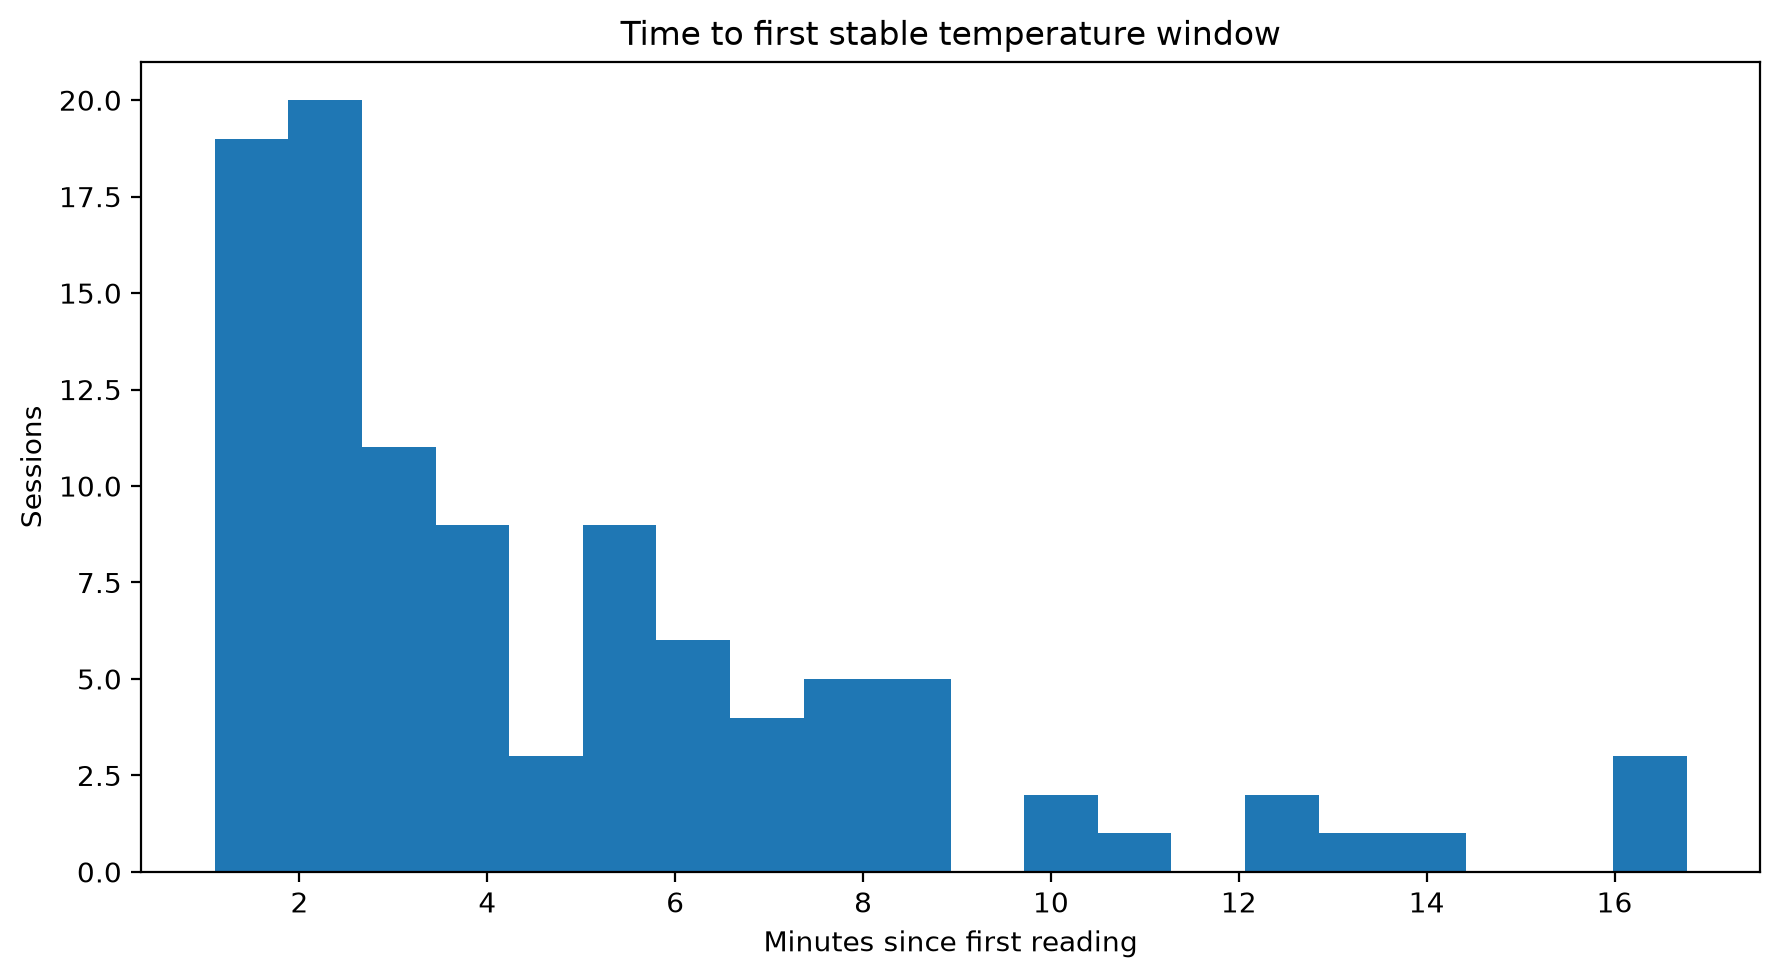
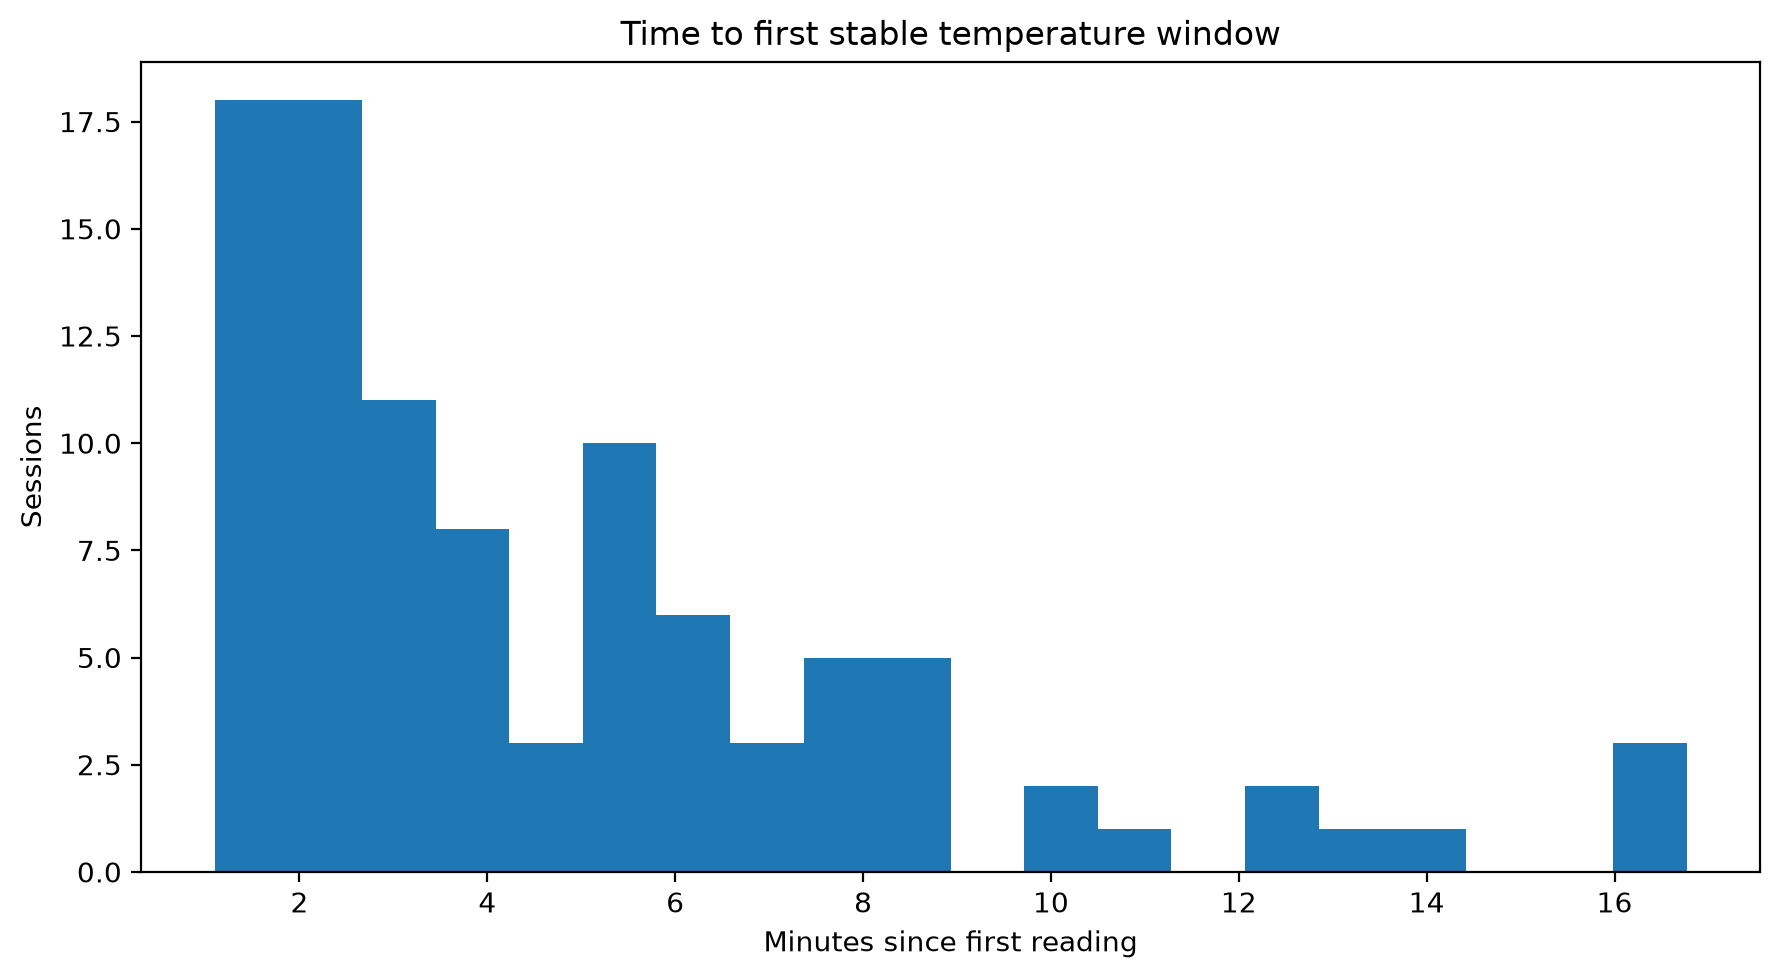
Add Apple Health merge step for smartwatch data and ipdate smartwatch report

diff --git a/smartwatch.html b/smartwatch.html
@@ -65,12 +65,12 @@ a {
 <h2>Dataset overview</h2>
 <table>
 <tr><th>Metric</th><th>Value</th></tr>
-<tr><td>Raw water temperature observations</td><td>6,497</td></tr>
-<tr><td>Observation period</td><td>2025-02-14 to 2026-09-14</td></tr>
-<tr><td>Sessions using 30-minute gap rule</td><td>277</td></tr>
-<tr><td>Single-observation sessions</td><td>135</td></tr>
+<tr><td>Raw water temperature observations</td><td>6,140</td></tr>
+<tr><td>Observation period</td><td>2025-02-14 to 2026-07-22</td></tr>
+<tr><td>Sessions using 30-minute gap rule</td><td>272</td></tr>
+<tr><td>Single-observation sessions</td><td>134</td></tr>
 <tr><td>Short sessions, 2–4 readings</td><td>12</td></tr>
-<tr><td>Continuous sessions, 5+ readings</td><td>130</td></tr>
+<tr><td>Continuous sessions, 5+ readings</td><td>126</td></tr>
 </table>
 </div>
 
@@ -78,18 +78,18 @@ a {
 <h2>Key findings</h2>
 
 <ul>
-<li><strong>6,497</strong> smartwatch water temperature observations were analysed.</li>
-<li>These observations formed <strong>277</strong> swim sessions using a 30-minute gap rule.</li>
-<li><strong>130 sessions (46.9%)</strong> contained five or more readings and provide sufficient observations to investigate stable temperature plateau detection. </li>
+<li><strong>6,140</strong> smartwatch water temperature observations were analysed.</li>
+<li>These observations formed <strong>272</strong> swim sessions using a 30-minute gap rule.</li>
+<li><strong>126 sessions (46.3%)</strong> contained five or more readings and provide sufficient observations to investigate stable temperature plateau detection. </li>
 <li>The median sampling interval was <strong>17.0 seconds</strong>, providing high temporal resolution within sessions.</li>
 <li>The data support deriving <strong>one representative temperature per swim session</strong>, rather than treating observations as independent temperature measurements.</li>
 </ul>
 
 <table>
 <tr><th>Finding</th><th>Value</th></tr>
-<tr><td>Average readings per session</td><td>23.5</td></tr>
-<tr><td>Readings ≥20°C</td><td>390 (6.0%)</td></tr>
-<tr><td>Readings ≥25°C</td><td>187 (2.9%)</td></tr>
+<tr><td>Average readings per session</td><td>22.6</td></tr>
+<tr><td>Readings ≥20°C</td><td>353 (5.7%)</td></tr>
+<tr><td>Readings ≥25°C</td><td>152 (2.5%)</td></tr>
 </table>
 
 </div>
@@ -100,9 +100,9 @@ a {
 <table>
 <tr><th>Metric</th><th>Value</th></tr>
 <tr><td>Minimum recorded temperature</td><td>5.46°C</td></tr>
-<tr><td>Maximum recorded temperature</td><td>126.89°C</td></tr>
-<tr><td>Readings ≥20°C</td><td>390</td></tr>
-<tr><td>Readings ≥25°C</td><td>187</td></tr>
+<tr><td>Maximum recorded temperature</td><td>41.97°C</td></tr>
+<tr><td>Readings ≥20°C</td><td>353</td></tr>
+<tr><td>Readings ≥25°C</td><td>152</td></tr>
 </table>
 <img src="reports/charts/raw_temperature_observations.png" alt="Raw smartwatch water temperature observations">
 </div>
@@ -112,7 +112,7 @@ a {
 <table>
 <tr><th>Metric</th><th>Value</th></tr>
 <tr><td>Median sampling interval</td><td>17.0 seconds</td></tr>
-<tr><td>Within-session intervals</td><td>6,220</td></tr>
+<tr><td>Within-session intervals</td><td>5,868</td></tr>
 </table>
 <img src="reports/charts/sampling_intervals.png" alt="Sampling interval distribution">
 </div>
@@ -122,9 +122,9 @@ a {
 
 <table>
 <tr><th>Metric</th><th>Value</th></tr>
-<tr><td>Median duration</td><td>1.1 minutes</td></tr>
-<tr><td>75th percentile</td><td>17.1 minutes</td></tr>
-<tr><td>95th percentile</td><td>29.2 minutes</td></tr>
+<tr><td>Median duration</td><td>0.8 minutes</td></tr>
+<tr><td>75th percentile</td><td>17.0 minutes</td></tr>
+<tr><td>95th percentile</td><td>27.6 minutes</td></tr>
 </table>
 
 <img src="reports/charts/session_durations.png" alt="Session duration distribution">
@@ -168,14 +168,14 @@ above are excluded before this analysis.
 
 <table>
 <tr><th>Metric</th><th>Value</th></tr>
-<tr><td>Sessions analysed for stability</td><td>126</td></tr>
-<tr><td>Sessions with provisional stable window</td><td>101 (80.2%)</td></tr>
+<tr><td>Sessions analysed for stability</td><td>122</td></tr>
+<tr><td>Sessions with provisional stable window</td><td>97 (79.5%)</td></tr>
 <tr><td>Median time to first stable window</td><td>3.6 minutes</td></tr>
 <tr><td>75th percentile time to stability</td><td>6.3 minutes</td></tr>
-<tr><td>90th percentile time to stability</td><td>8.8 minutes</td></tr>
+<tr><td>90th percentile time to stability</td><td>9.2 minutes</td></tr>
 <tr><td>Median rolling 5-reading range</td><td>0.30°C</td></tr>
 <tr><td>75th percentile rolling range</td><td>0.70°C</td></tr>
-<tr><td>90th percentile rolling range</td><td>1.89°C</td></tr>
+<tr><td>90th percentile rolling range</td><td>1.78°C</td></tr>
 </table>
 
 <img src="reports/charts/first_stable_minute.png" alt="Time to first stable temperature window">
